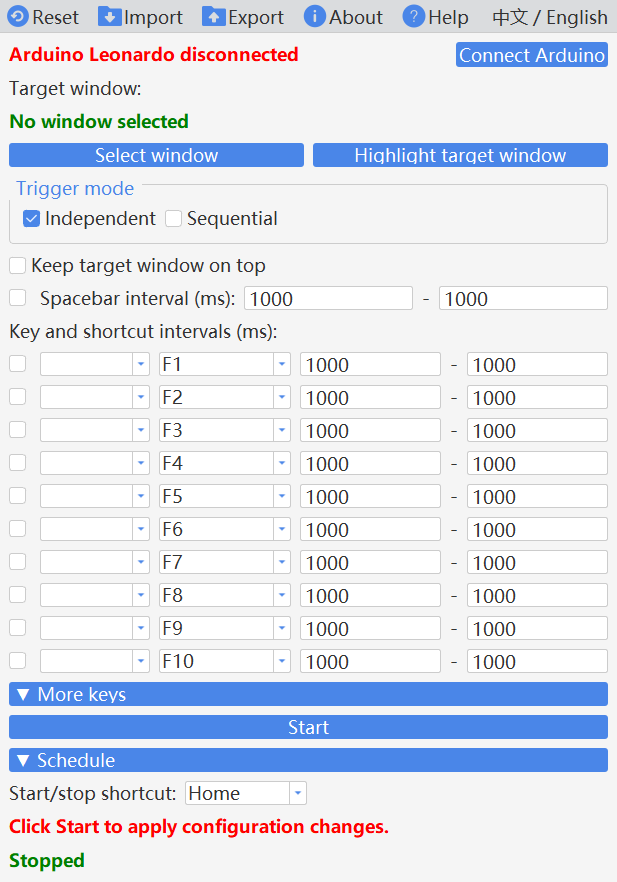
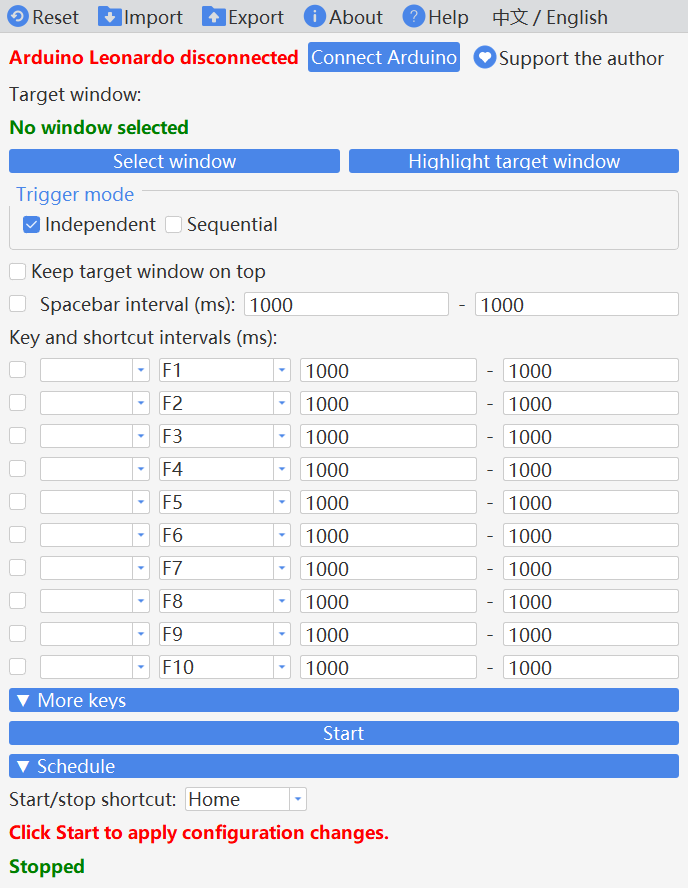
Add a WeChat support button beside Arduino Connect

diff --git a/translations/KeyPresserHardware_en.ts b/translations/KeyPresserHardware_en.ts
@@ -254,6 +254,18 @@ Use F1–F12 with care.</translation>
         <source>运行中</source>
         <translation>Running</translation>
     </message>
+    <message>
+        <source>赞赏作者</source>
+        <translation>Support the author</translation>
+    </message>
+    <message>
+        <source>请打开微信扫一扫。</source>
+        <translation>Scan this code in WeChat.</translation>
+    </message>
+    <message>
+        <source>关闭</source>
+        <translation>Close</translation>
+    </message>
 </context>
 <context>
     <name>StartupPromotion</name>

diff --git a/keypresserHardware.cpp b/keypresserHardware.cpp
@@ -19,6 +19,8 @@
 #include <QDebug>
 #include <limits>
 #include <QInputDialog>
+#include <QDialog>
+#include <QPixmap>
 
 
 KeyPresserHardware *KeyPresserHardware::instance = nullptr;
@@ -148,9 +150,29 @@ KeyPresserHardware::KeyPresserHardware(QWidget *parent) : QWidget(parent)
     arduinoLabel->setStyleSheet("color: red;");
     auto *connectButton = new QPushButton(tr("连接 Arduino"), this);
     connect(connectButton, &QPushButton::clicked, this, [this]() { checkArduino(true); });
+    auto *supportButton = new QToolButton(this);
+    supportButton->setIcon(QIcon(QStringLiteral(":/png/support-heart.png")));
+    supportButton->setText(tr("赞赏作者"));
+    supportButton->setToolButtonStyle(Qt::ToolButtonTextBesideIcon);
+    connect(supportButton, &QToolButton::clicked, this, [this]() {
+        QDialog dialog(this);
+        dialog.setWindowTitle(tr("赞赏作者"));
+        auto *layout = new QVBoxLayout(&dialog);
+        auto *instructions = new QLabel(tr("请打开微信扫一扫。"), &dialog);
+        auto *code = new QLabel(&dialog);
+        code->setPixmap(QPixmap(QStringLiteral(":/png/wechat-support.png")));
+        auto *closeButton = new QPushButton(tr("关闭"), &dialog);
+        connect(closeButton, &QPushButton::clicked, &dialog, &QDialog::accept);
+        layout->addWidget(instructions, 0, Qt::AlignHCenter);
+        layout->addWidget(code, 0, Qt::AlignHCenter);
+        layout->addWidget(closeButton, 0, Qt::AlignRight);
+        layout->setSizeConstraint(QLayout::SetFixedSize);
+        dialog.exec();
+    });
     auto *arduinoLayout = new QHBoxLayout();
     arduinoLayout->addWidget(arduinoLabel, 1);
     arduinoLayout->addWidget(connectButton);
+    arduinoLayout->addWidget(supportButton);
     layout->addLayout(arduinoLayout);
     QLabel *label = new QLabel(tr("选择窗口:"), this);
     layout->addWidget(label);

diff --git a/README.md b/README.md
@@ -20,6 +20,7 @@ Get the x64 installer from [GitHub Releases](https://github.com/FinnWang-CN/KeyP
 
 ## Use the app
 
+- Click **Support the author** beside **Connect Arduino** to open the WeChat support code.
 - The startup tip for KeyPresser Professional shows at most once every seven days. Select **Do not show again** to turn it off.
 - Click **中文 / English** in the toolbar to change the interface language. The app restarts and remembers the choice. On first launch it uses Simplified Chinese on Chinese Windows systems and English on other systems.
 - Click **Select window**, then bring the target window to the foreground. Enable the keys you want, choose any modifiers, and set the interval in milliseconds. Use equal values for a fixed interval or different values for a random interval.

diff --git a/README.zh-CN.md b/README.zh-CN.md
@@ -195,4 +195,6 @@ A: 请检查：
 
 ## 赞赏作者
 
+点击主界面「连接 Arduino」右侧的「赞赏作者」，即可打开微信赞赏码。
+
 ![微信赞赏码](png/wechat-support.png)
